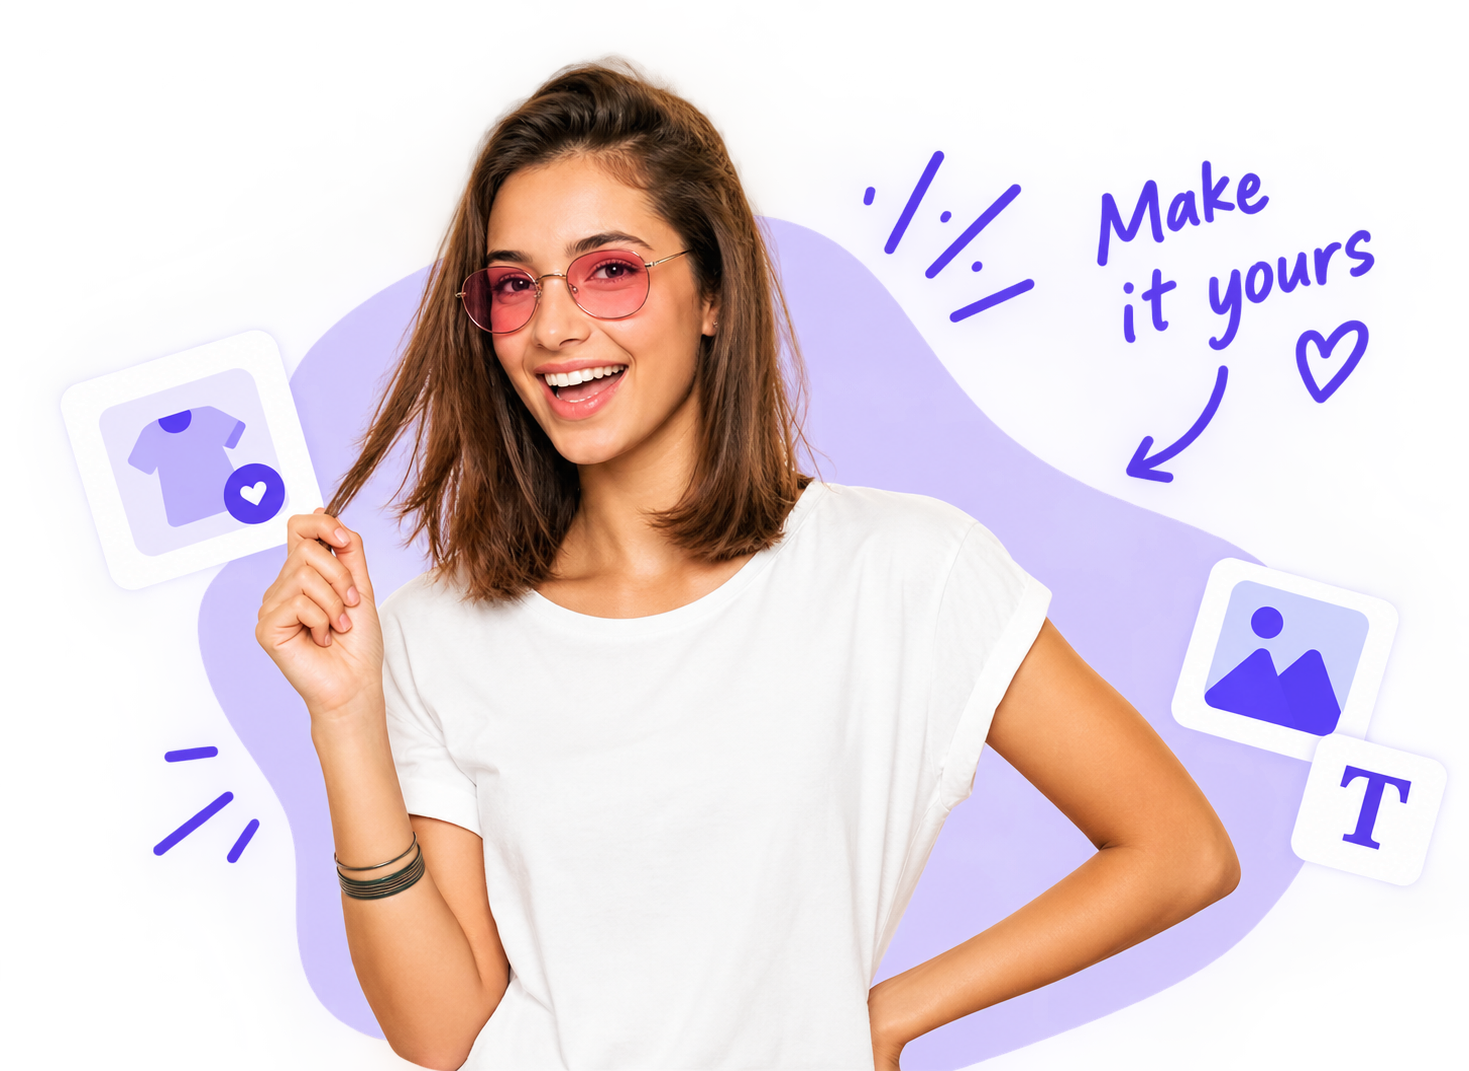
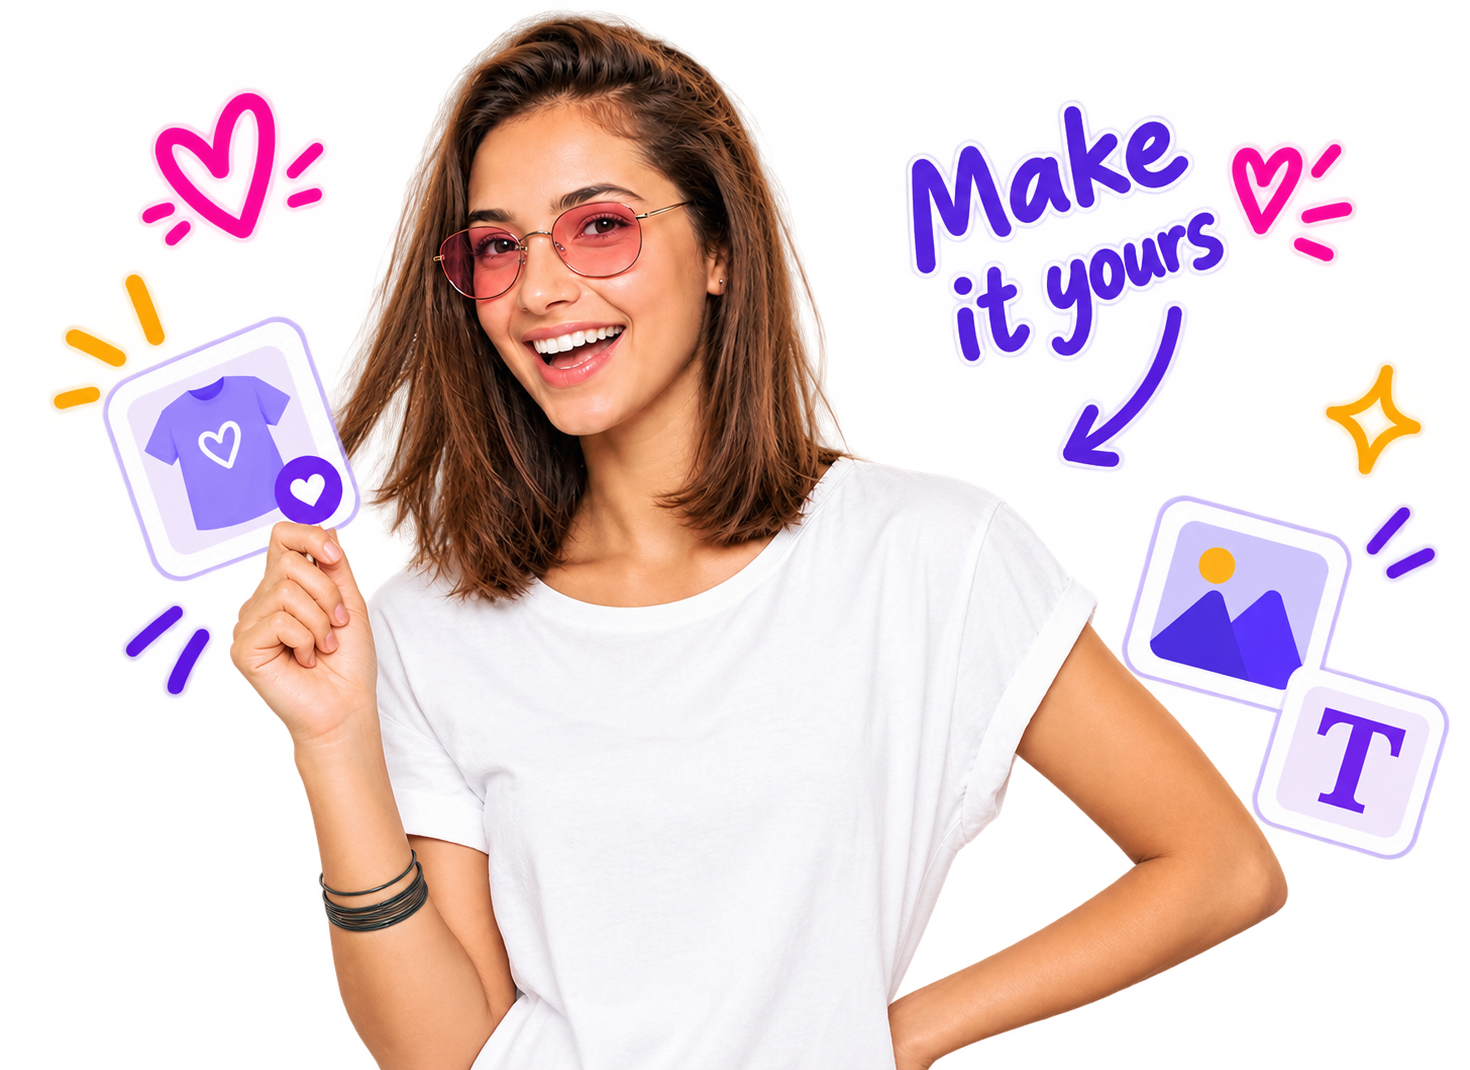
style: change style of cards of customize page

diff --git a/src/features/designs/CardOfDesigner.jsx b/src/features/designs/CardOfDesigner.jsx
@@ -1,6 +1,5 @@
 import { Link } from "react-router-dom";
 import Skelton from "../../layouts/Skelton";
-import ArrowRight from "../../icons/ArrowRight";
 import Play from "../../icons/Play";
 import Order from "../../icons/Order";
 import CarIcon from "../../icons/CarIcon";
@@ -44,19 +43,22 @@ export default function CardOfDesigner() {
       <div className=" flex justify-center">
         <div className="grid grid-cols-1 sm:grid-cols-2 lg:grid-cols-3 gap-6">
           {products.map((product) => (
-            <div
+            <Link
+              to={`/designer/${product._id}`}
               key={product._id}
-              className="border border-borderLight w-full shadow-cardShadow rounded-lg flex flex-col h-full"
+              className="w-full rounded-lg flex flex-col h-full"
             >
-              <figure className="px-5 pt-10 h-64 flex items-center justify-center">
+              <figure className="pt-10 h-64 flex items-center justify-center overflow-hidden">
                 <img
                   src={product.image}
                   alt={product.name}
-                  className="rounded-xl max-h-full max-w-full object-contain"
+                  className="rounded-xl max-h-full max-w-full object-contain 
+               transition-transform duration-500 ease-out 
+               hover:scale-110 will-change-transform"
                 />
               </figure>
 
-              <div className="flex flex-col p-4 gap-2 flex-1">
+              <div className="flex flex-col p-4 gap-2 flex-1 items-center">
                 <h2 className="text-lg font-bold tracking-tighter uppercase">
                   {product.name}
                 </h2>
@@ -64,16 +66,8 @@ export default function CardOfDesigner() {
                 <p className="text-primary text-xl font-semibold">
                   EG {product.price}
                 </p>
-
-                <Link
-                  to={`/designer/${product._id}`}
-                  className="flex items-center justify-center gap-2 bg-primary text-white rounded-full cursor-pointer hover:bg-primaryDark transition duration-300 ease-in-out text-sm p-2 px-3 text-center mt-auto"
-                >
-                  Custome your design
-                  <ArrowRight />
-                </Link>
               </div>
-            </div>
+            </Link>
           ))}
         </div>
       </div>

diff --git a/src/features/designs/HeroSection.jsx b/src/features/designs/HeroSection.jsx
@@ -2,7 +2,7 @@ import { GiSeaStar } from "react-icons/gi";
 
 export default function HeroSection() {
   return (
-    <div className="grid grid-cols-1 md:grid-cols-4  mb-20 container mx-auto">
+    <div className="grid grid-cols-1 md:grid-cols-4 mb-8 container mx-auto">
       <div className="md:col-span-2">
 
         <img

diff --git a/src/pages/CustomizePage.jsx b/src/pages/CustomizePage.jsx
@@ -4,7 +4,7 @@ import CardOfDesigner from '../features/designs/CardOfDesigner';
 
 export default function CustomizePage() {
   return (
-    <div className="mb-44">
+    <div className="py-10">
 
       {/* Her Section  */}
       <HeroSection />
